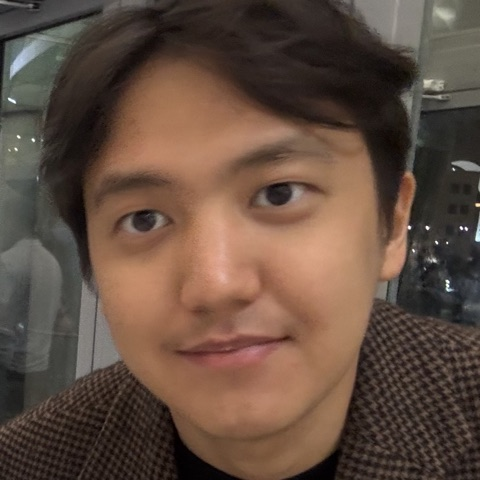
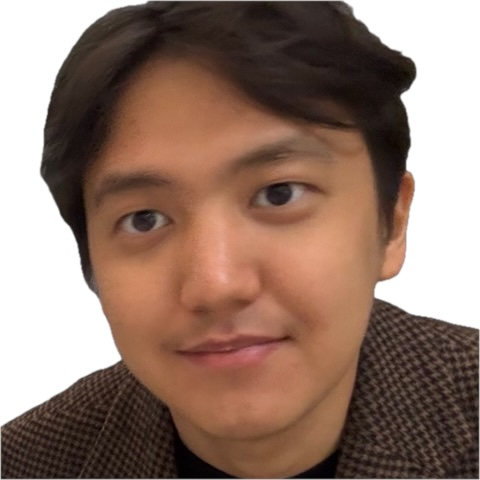
Команда в «Кто мы»: два разработчика, роли, белый фон на фото
Добавлены карточки Кинаята Абая и Адиля Хамита с фото и описанием,
у Адиля Закарина роль «Тимлид». Фон всех трёх фото заменён на белый,
у круглых фото тонкая обводка.

diff --git a/styles.css b/styles.css
@@ -226,13 +226,18 @@ ul, ol { margin: 0; padding: 0; list-style: none; }
 
 /* About */
 .about { padding: 40px; display: grid; grid-template-columns: 160px 1fr; gap: 40px; align-items: center; max-width: 880px; margin-inline: auto; }
-.about__photo { width: 160px; height: 160px; border-radius: 50%; object-fit: cover; display: grid; place-items: center; font: 700 64px/1 var(--display); color: #fff; background: linear-gradient(135deg, #0a84ff, #8e5bd6); box-shadow: var(--shadow-sm); }
+.about__photo { width: 160px; height: 160px; border-radius: 50%; object-fit: cover; display: grid; place-items: center; font: 700 64px/1 var(--display); color: #fff; background: linear-gradient(135deg, #0a84ff, #8e5bd6); box-shadow: 0 0 0 1px var(--hair), var(--shadow-sm); }
 .about h3 { font-size: clamp(26px, 3vw, 32px); letter-spacing: -0.03em; }
 .about__role { margin-top: 4px; color: var(--muted); }
 .about__body > p + p { margin-top: 14px; color: var(--ink-2); }
 .about__facts { display: grid; gap: 8px; margin-top: 22px; padding-top: 18px; border-top: 1px solid var(--hair); }
 .about__facts li { display: flex; gap: 10px; align-items: center; font-size: 16px; }
 .about__facts .ic { width: 18px; height: 18px; color: var(--green); }
+.team { display: grid; grid-template-columns: 1fr 1fr; gap: 16px; max-width: 880px; margin: 16px auto 0; }
+.team__card { display: flex; gap: 20px; align-items: center; padding: 22px 24px; }
+.team__photo { width: 88px; height: 88px; border-radius: 50%; object-fit: cover; flex: none; box-shadow: 0 0 0 1px var(--hair), var(--shadow-sm); }
+.team h3 { font-size: 21px; letter-spacing: -0.02em; }
+.team__text { margin-top: 10px; font-size: 15px; color: var(--ink-2); }
 
 /* Placeholders to fill before publishing (see README) */
 [data-todo] { outline: 2px dashed #f08a00; outline-offset: 3px; border-radius: 4px; }
@@ -516,6 +521,9 @@ figure { margin: 0; }
   .about__facts { text-align: left; }
   .about__facts li { align-items: flex-start; }
   .about__facts .ic { margin-top: 3px; }
+  .team { grid-template-columns: 1fr; gap: 12px; }
+  .team__card { padding: 18px 20px; gap: 16px; }
+  .team__photo { width: 72px; height: 72px; }
   .float { position: relative; inset: auto; max-width: none; margin-top: 12px; }
   .pains, .trust { grid-template-columns: 1fr; }
   .pain { padding: 24px; grid-template-columns: 1fr; }

diff --git a/index.html b/index.html
@@ -242,7 +242,7 @@
         <img class="about__photo" src="assets/adil.jpg" width="480" height="480" alt="Адиль" loading="lazy">
         <div class="about__body">
           <h3>Адиль Закарин</h3>
-          <p class="about__role">Руководитель команды. Каждый проект веду лично</p>
+          <p class="about__role">Тимлид. Пишу код и веду каждый проект лично</p>
           <p>Я в IT больше 5 лет, со мной работают два разработчика. Берёмся за проекты разного уровня сложности: от Telegram-бота за неделю до системы учёта под процессы компании.</p>
           <ul class="about__facts">
             <li><svg class="ic"><use href="#i-shield"/></svg>Работаем по договору</li>
@@ -251,6 +251,24 @@
           </ul>
         </div>
       </article>
+      <ul class="team">
+        <li class="team__card glass glass--sm reveal">
+          <img class="team__photo" src="assets/kinayat.jpg" width="480" height="480" alt="Кинаят Абай" loading="lazy">
+          <div>
+            <h3>Кинаят Абай</h3>
+            <p class="about__role">Разработчик</p>
+            <p class="team__text">Строит системы учёта: каталог, калькулятор КП, склад и заказы. Отвечает за интеграции: amoCRM, Bitrix24, Google Таблицы и Kaspi.</p>
+          </div>
+        </li>
+        <li class="team__card glass glass--sm reveal">
+          <img class="team__photo" src="assets/khamit.jpg" width="480" height="480" alt="Адиль Хамит" loading="lazy">
+          <div>
+            <h3>Адиль Хамит</h3>
+            <p class="about__role">Разработчик</p>
+            <p class="team__text">Делает Telegram-ботов и автоматизацию заявок. Перед сдачей проходит каждый сценарий так, как пройдёт его ваш клиент.</p>
+          </div>
+        </li>
+      </ul>
     </section>
 
     <!-- Trust -->
